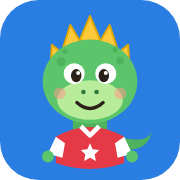
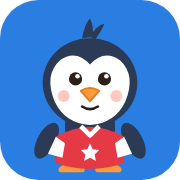
Charlie's version: penguin host, named Charlie
Claude-Session: https://claude.ai/code/session_016kJb3BtDpowdTveexxS8um

diff --git a/index.html b/index.html
@@ -3,11 +3,11 @@
 <head>
 <meta charset="utf-8">
 <meta name="viewport" content="width=device-width, initial-scale=1, viewport-fit=cover, user-scalable=no">
-<title>OLIVER – Play &amp; Learn</title>
+<title>CHARLIE – Play &amp; Learn</title>
 <meta name="theme-color" content="#ffc93c">
 <meta name="apple-mobile-web-app-capable" content="yes">
 <meta name="mobile-web-app-capable" content="yes">
-<meta name="apple-mobile-web-app-title" content="OLIVER">
+<meta name="apple-mobile-web-app-title" content="CHARLIE">
 <meta name="apple-mobile-web-app-status-bar-style" content="black-translucent">
 <link rel="manifest" href="manifest.webmanifest">
 <link rel="icon" href="icon.svg" type="image/svg+xml">
@@ -17,8 +17,8 @@
 <link href="https://fonts.googleapis.com/css2?family=Baloo+2:wght@600;800&display=swap" rel="stylesheet">
 <style>
 /* VOICE: warm, bouncy, encouraging — a picture-book friend, never a test.
-   IDEA: a sunny playroom where OLIVER the dinosaur hosts each mini-game like a kids' TV show.
-   PICTURE: OLIVER himself, large, beside one big task; answers are chunky toys to tap.
+   IDEA: a sunny playroom where CHARLIE the penguin hosts each mini-game like a kids' TV show.
+   PICTURE: CHARLIE himself, large, beside one big task; answers are chunky toys to tap.
    COLOUR and TYPE: lion gold ground, sky blue stage, kit red accent; Baloo 2 rounded display.
    LAYOUT: one task per screen, three huge answers in a row; works portrait, landscape and TV. */
 :root{--gold:#ffc93c;--mane:#f28c28;--sky:#2a7de1;--sky2:#5fb0ff;--red:#e63946;--ink:#2b2118;--paper:#fffaf0;--ok:#2fbf71;
@@ -247,31 +247,28 @@ h1{font-size:clamp(40px,8vw,72px)}h2{font-size:clamp(26px,5vw,44px)}
 </head>
 <body>
 
-<!-- Reusable art: OLIVER, star -->
+<!-- Reusable art: CHARLIE, star -->
 <svg width="0" height="0" style="position:absolute" aria-hidden="true">
   <defs>
     <symbol id="leo" viewBox="0 -16 200 246">
-      <!-- The host: an original friendly green dinosaur in the red-and-white shirt. -->
-      <path d="M150 196q40 2 44-30q-4 20-42 12z" fill="#4fb35e"/>
-      <g fill="#ffc93c" stroke="#e0a800" stroke-width="3" stroke-linejoin="round">
-        <path d="M58 44 70 6l18 30z"/><path d="M84 30 100-8l16 38z"/><path d="M112 36l18-30 12 38z"/><path d="M40 70l2-34 24 20z"/><path d="M134 56l24-20 2 34z"/>
-      </g>
-      <rect x="74" y="140" width="52" height="40" rx="14" fill="#4fb35e"/>
-      <ellipse cx="100" cy="92" rx="72" ry="64" fill="#5cc46a"/>
-      <g fill="#4fb35e"><circle cx="56" cy="62" r="7"/><circle cx="146" cy="60" r="6"/><circle cx="138" cy="44" r="4"/><circle cx="62" cy="46" r="4"/></g>
-      <ellipse cx="100" cy="120" rx="50" ry="30" fill="#b8ec9a"/>
-      <circle cx="76" cy="80" r="16" fill="#fff"/><circle cx="124" cy="80" r="16" fill="#fff"/>
-      <ellipse cx="79" cy="83" rx="8" ry="10" fill="#2b2118"/><ellipse cx="121" cy="83" rx="8" ry="10" fill="#2b2118"/>
-      <circle cx="82" cy="79" r="3" fill="#fff"/><circle cx="124" cy="79" r="3" fill="#fff"/>
-      <circle cx="90" cy="108" r="3.5" fill="#2f7a3a"/><circle cx="110" cy="108" r="3.5" fill="#2f7a3a"/>
-      <circle cx="54" cy="110" r="9" fill="#ff9a8a" opacity=".55"/><circle cx="146" cy="110" r="9" fill="#ff9a8a" opacity=".55"/>
-      <path d="M80 124q20 18 40 0" fill="none" stroke="#2b2118" stroke-width="5" stroke-linecap="round"/>
+      <!-- The host: an original friendly penguin in the red-and-white shirt. -->
+      <ellipse cx="72" cy="226" rx="20" ry="9" fill="#ff9a3c"/><ellipse cx="128" cy="226" rx="20" ry="9" fill="#ff9a3c"/>
+      <ellipse cx="34" cy="182" rx="14" ry="30" fill="#2b3a55" transform="rotate(28 34 182)"/><ellipse cx="166" cy="182" rx="14" ry="30" fill="#2b3a55" transform="rotate(-28 166 182)"/>
+      <rect x="62" y="130" width="76" height="60" rx="26" fill="#2b3a55"/>
+      <path d="M88 26q4-22 12-30 6 12 4 28M100 24q10-18 22-20-6 14-14 24" fill="#2b3a55"/>
+      <ellipse cx="100" cy="94" rx="72" ry="68" fill="#2b3a55"/>
+      <path d="M100 66q-22-24-46-6-24 22-8 62 16 34 54 36 38-2 54-36 16-40-8-62-24-18-46 6z" fill="#fff"/>
+      <circle cx="78" cy="88" r="10" fill="#2b2118"/><circle cx="122" cy="88" r="10" fill="#2b2118"/>
+      <circle cx="81" cy="84" r="3.5" fill="#fff"/><circle cx="125" cy="84" r="3.5" fill="#fff"/>
+      <circle cx="60" cy="114" r="9" fill="#ff9a8a" opacity=".55"/><circle cx="140" cy="114" r="9" fill="#ff9a8a" opacity=".55"/>
+      <path d="M86 106q14-8 28 0l-14 16z" fill="#ff9a3c" stroke="#e07f24" stroke-width="3" stroke-linejoin="round"/>
+      <path d="M88 130q12 8 24 0" fill="none" stroke="#2b2118" stroke-width="4" stroke-linecap="round"/>
       <path d="M48 176q52-30 104 0v40q-52 18-104 0z" fill="#e63946"/>
       <path d="M48 176l-12 26 22 6 4-22zM152 176l12 26-22 6-4-22z" fill="#fff"/>
-      <circle cx="36" cy="206" r="9" fill="#5cc46a"/><circle cx="164" cy="206" r="9" fill="#5cc46a"/>
       <path d="M86 160l14 14 14-14" fill="none" stroke="#fff" stroke-width="7" stroke-linejoin="round"/>
       <path d="M100 186l4 9 10 1-7 7 2 10-9-5-9 5 2-10-7-7 10-1z" fill="#fff"/>
     </symbol>
+
     <symbol id="lion" viewBox="0 -16 200 246">
       <g fill="#f28c28">
         <circle cx="100" cy="88" r="78"/>
@@ -325,7 +322,7 @@ h1{font-size:clamp(40px,8vw,72px)}h2{font-size:clamp(26px,5vw,44px)}
       <path d="M185 145h130" stroke="#fff" stroke-width="4" stroke-dasharray="10 8"/>
       <g fill="#ffc93c"><rect x="207" y="88" width="8" height="30" rx="3"/><rect x="232" y="88" width="8" height="30" rx="3"/><rect x="258" y="88" width="8" height="30" rx="3"/><rect x="284" y="88" width="8" height="30" rx="3"/></g>
       <g fill="#ff9a3c"><ellipse cx="211" cy="80" rx="5" ry="8"/><ellipse cx="236" cy="80" rx="5" ry="8"/><ellipse cx="262" cy="80" rx="5" ry="8"/><ellipse cx="288" cy="80" rx="5" ry="8"/></g>
-      <text x="250" y="190" font-size="26" font-weight="800" text-anchor="middle" fill="#8a5cf6" font-family="system-ui,sans-serif">OLIVER 4</text>
+      <text x="250" y="190" font-size="26" font-weight="800" text-anchor="middle" fill="#8a5cf6" font-family="system-ui,sans-serif">CHARLIE 4</text>
       <rect x="350" y="122" width="44" height="44" rx="4" fill="#2a7de1"/><path d="M372 122v44M350 144h44" stroke="#ffc93c" stroke-width="6"/>
       <rect x="402" y="132" width="36" height="34" rx="4" fill="#e63946"/><path d="M420 132v34M402 149h36" stroke="#fff" stroke-width="5"/>
       <g fill="#8a5cf6"><circle cx="150" cy="150" r="5"/><circle cx="170" cy="100" r="4"/><circle cx="330" cy="70" r="5"/></g>
@@ -363,13 +360,13 @@ h1{font-size:clamp(40px,8vw,72px)}h2{font-size:clamp(26px,5vw,44px)}
 
 <section id="start" class="screen on" aria-label="Start">
   <svg class="leo-hero wave" aria-hidden="true"><use href="#leo"/></svg>
-  <h1>OLIVER</h1>
+  <h1>CHARLIE</h1>
   <button class="big" id="startBtn" data-nav>Let's play!</button>
 </section>
 
 <section id="birthday" class="screen" aria-label="Happy birthday">
   <div class="balloons" id="balloons"></div>
-  <h1>Happy 4th Birthday, Oliver!</h1>
+  <h1>Happy 4th Birthday, Charlie!</h1>
   <div class="bday-scene">
     <svg class="bday-leo wave" aria-hidden="true"><use href="#leo"/></svg>
     <svg class="cake" viewBox="0 0 200 230" aria-label="Birthday cake with a number 4 candle">
@@ -441,12 +438,12 @@ h1{font-size:clamp(40px,8vw,72px)}h2{font-size:clamp(26px,5vw,44px)}
     <label>Prize videos, one YouTube link per line (video 1 plays after game 1, and so on)
       <textarea id="setVideos" data-nav placeholder="https://www.youtube.com/watch?v=..."></textarea>
       <span class="note" id="videoCount"></span></label>
-    <p class="note">Tip: lock the device to OLIVER with Guided Access (iPhone/iPad) or screen pinning (Android) so he can't leave the app.</p>
+    <p class="note">Tip: lock the device to CHARLIE with Guided Access (iPhone/iPad) or screen pinning (Android) so he can't leave the app.</p>
     <div><h3>Numbers</h3><div class="bars" id="numBars"></div></div>
     <div><h3>Shapes</h3><div class="bars" id="shapeBars"></div></div>
     <p class="note" id="levelNote"></p>
     <p class="note" id="voiceNote"></p>
-    <div class="row"><button class="big blue" type="button" id="voiceTest" data-nav>Test OLIVER's voice</button></div>
+    <div class="row"><button class="big blue" type="button" id="voiceTest" data-nav>Test CHARLIE's voice</button></div>
     <p class="note">Settings and videos are saved on this device only, so set them on each phone, tablet or TV.</p>
     <div class="row"><button class="big" type="submit" data-nav>Save</button><button class="big blue" type="button" id="setBack" data-nav>Back</button></div>
     <div class="row"><button type="button" class="note" id="resetBtn" data-nav>Reset progress</button><button type="button" class="note" id="pinChange" data-nav>Change PIN</button></div>
@@ -557,7 +554,7 @@ function pickVoice() {
   } catch (e) { voice = null; }
 }
 if ('speechSynthesis' in window) { pickVoice(); speechSynthesis.onvoiceschanged = pickVoice; }
-/* In the Fire TV app, OLIVER speaks through the device's own voice engine (window.LeoNative). */
+/* In the Fire TV app, CHARLIE speaks through the device's own voice engine (window.LeoNative). */
 const nativeVoice = typeof window.LeoNative === 'object' && window.LeoNative !== null;
 let speechSeq = 0;
 const speechPending = new Map();
@@ -638,7 +635,7 @@ function say(text) {
 
 /* ---------- Sound (original jingles, synthesised) ---------- */
 let ac = null;
-// iPhone: let OLIVER's music play even when the ring/silent switch is on (Safari 17+).
+// iPhone: let CHARLIE's music play even when the ring/silent switch is on (Safari 17+).
 try { if (navigator.audioSession) navigator.audioSession.type = 'playback'; } catch (e) { console.warn('[LEO] audio session', e); }
 // iPhone only starts Web Audio from a finished tap (touchend/click), not from touchstart/pointerdown.
 function unlockAudio() {
@@ -725,7 +722,7 @@ function confetti() {
 }
 
 /* ---------- Game loop ---------- */
-const PRAISE = ['Brilliant!', 'Well done, Oliver!', 'Amazing!', "You're a superstar, Oliver!", 'Fantastic!', 'Yes! Great job!'];
+const PRAISE = ['Brilliant!', 'Well done, Charlie!', 'Amazing!', "You're a superstar, Charlie!", 'Fantastic!', 'Yes! Great job!'];
 const NUM_WORD = ['zero', 'one', 'two', 'three', 'four', 'five', 'six', 'seven', 'eight', 'nine', 'ten'];
 let round = null, firstTry = true, locked = false, lastType = null, promptText = '';
 let currentGame = null, roundIndex = 0;
@@ -762,10 +759,10 @@ function renderMenu() {
   $('gameTiles').querySelectorAll('.tile').forEach((t) => {
     const g = C.GAMES.find((x) => x.id === t.dataset.game);
     t.addEventListener('click', () => startGame(g.id));
-    t.addEventListener('focus', () => { if (usingPad) say(g.name); }); // OLIVER reads the game names to a non-reader
+    t.addEventListener('focus', () => { if (usingPad) say(g.name); }); // CHARLIE reads the game names to a non-reader
   });
 }
-function goHome() { renderJars(); show('home'); say('Hello Oliver! Pick a game!'); }
+function goHome() { renderJars(); show('home'); say('Hello Charlie! Pick a game!'); }
 function startGame(id) {
   currentGame = id; roundIndex = 0; pen = null; tune = null; jig = null; ord = null; bld = null; mem = null; hs = null; fr = null; race = null; $('task').classList.remove('hidetask', 'firetask', 'racetask'); state = { ...state, stars: 0 }; save();
   show('play'); renderJars(); newRound();
@@ -943,11 +940,11 @@ async function dropPiece(slot, btn) {
   // Fill the star jar as the picture comes together.
   state = { ...state, stars: Math.round(jig.placed.length / C.JIGSAW_PIECES * state.settings.starsPerReward) }; save(); renderJars();
   sfx.right();
-  if (!C.isJigsawDone(jig.placed)) { renderJigsaw(); say(rand(['Yes!', 'Perfect!', 'Great!', 'Brilliant!', 'Well done, Oliver!'])); return; }
+  if (!C.isJigsawDone(jig.placed)) { renderJigsaw(); say(rand(['Yes!', 'Perfect!', 'Great!', 'Brilliant!', 'Well done, Charlie!'])); return; }
   locked = true;
   renderJigsaw();
   confetti(); sfx.fanfare();
-  await say(`You did it, Oliver! ${C.PUZZLES[jig.pic].done}`);
+  await say(`You did it, Charlie! ${C.PUZZLES[jig.pic].done}`);
   await wait(1200);
   if (current === 'play' && currentGame === 'jigsaw') { state = { ...state, stars: state.settings.starsPerReward }; save(); startReward(); }
 }
@@ -1284,7 +1281,7 @@ async function pickSpot(btn) {
   await funWin(`Boo! You found ${cur.h.hider}!`);
 }
 
-/* ---------- Fire Rescue: drive OLIVER's fire engine to each fire and spray it out ---------- */
+/* ---------- Fire Rescue: drive CHARLIE's fire engine to each fire and spray it out ---------- */
 const FX = [100, 300, 500, 700, 900]; // centre of each building
 const FY = [175, 300]; // upper and lower window rows
 const BUILD_COLS = [['#ffd6a5', 120], ['#bde0fe', 70], ['#ffc8dd', 140], ['#caffbf', 90], ['#fdffb6', 110]]; // colour, roof height
@@ -1301,7 +1298,7 @@ function fireScene() {
     return `<rect x="${x - 82}" y="${top}" width="164" height="${432 - top}" fill="${col}"/><rect x="${x - 90}" y="${top - 14}" width="180" height="18" rx="6" fill="#0002"/>${wins}`
       + (i === 2 ? `<rect x="${x - 24}" y="370" width="48" height="62" rx="6" fill="#e63946"/>` : `<rect x="${x - 20}" y="374" width="40" height="58" rx="6" fill="#8d5a2b"/>`);
   }).join('');
-  // OLIVER in a yellow helmet, riding an original red fire engine; the hose nozzle sits at (0,-58) relative to the truck.
+  // CHARLIE in a yellow helmet, riding an original red fire engine; the hose nozzle sits at (0,-58) relative to the truck.
   const truck = `<g class="truck" id="truck" style="transform:translateX(${FX[2]}px)"><g transform="translate(0 6) scale(.85)">
     <rect x="-118" y="-40" width="236" height="86" rx="14" fill="#e63946"/><rect x="-118" y="20" width="236" height="12" fill="#fff"/>
     <rect x="40" y="-112" width="80" height="76" rx="12" fill="#e63946"/><rect x="50" y="-102" width="60" height="44" rx="8" fill="#cfe8ff"/>
@@ -1377,8 +1374,8 @@ async function sprayAt(col) {
 }
 
 /* ---------- Race Day: one-button racing — jump the cones and win ---------- */
-const LANE_Y = [300, 392, 490]; // wheel line of each lane: two rivals, then OLIVER nearest
-const LEO_SCREEN_X = 210; // where OLIVER's car sits on screen; the world scrolls past
+const LANE_Y = [300, 392, 490]; // wheel line of each lane: two rivals, then CHARLIE nearest
+const LEO_SCREEN_X = 210; // where CHARLIE's car sits on screen; the world scrolls past
 function raceCar(colour, number, driver) {
   // An original side-on race car, 170 wide, wheels resting on y=64.
   return `<rect x="2" y="12" width="12" height="22" rx="3" fill="#2b2118"/><rect x="-2" y="8" width="26" height="8" rx="3" fill="${colour}"/>`
@@ -1453,7 +1450,7 @@ function raceTick(r, now) {
   const dt = Math.min(0.05, (now - r.last) / 1000); r.last = now;
   const slow = now < r.slowUntil ? 0.45 : 1;
   r.leo += LEO_SPEED * r.plan.speed * slow * dt;
-  // Rivals stay close. Each cone OLIVER hits lets them get further: 2 hits and blue beats him, 3 and green does too.
+  // Rivals stay close. Each cone CHARLIE hits lets them get further: 2 hits and blue beats him, 3 and green does too.
   const hits = r.hit.size;
   r.rivals = r.rivals.map((x, i) => {
     const beats = hits >= 2 + i;
@@ -1522,7 +1519,7 @@ function startReward() {
   $('rewardTitle').textContent = game ? `${game.name}: all done!` : 'You earned a surprise!';
   $('rewardArt').innerHTML = BOX;
   $('rewardBtn').textContent = 'Open it!'; $('skipBtn').hidden = true;
-  show('reward'); sfx.fanfare(); confetti(); say('Wow! You finished the game, Oliver! Open your surprise!');
+  show('reward'); sfx.fanfare(); confetti(); say('Wow! You finished the game, Charlie! Open your surprise!');
 }
 $('rewardBtn').addEventListener('click', async () => {
   if (rewardStage === 'box') {
@@ -1684,13 +1681,13 @@ function openSettings() {
 function updateVoiceNote() {
   let msg;
   try {
-    if (clipSet && clipSet.size) msg = `Voice: OLIVER's recorded voice, Poppy (${clipSet.size} phrases)`;
+    if (clipSet && clipSet.size) msg = `Voice: CHARLIE's recorded voice, Poppy (${clipSet.size} phrases)`;
     else if (nativeVoice) msg = `TV voice: ${window.LeoNative.status ? window.LeoNative.status() : (window.LeoNative.canSpeak() ? 'ready' : 'not ready')}`;
-    else msg = 'speechSynthesis' in window ? `Voice: ${voice ? voice.name : 'device default'}` : 'Voice: this browser cannot speak (use the OLIVER app on TV)';
+    else msg = 'speechSynthesis' in window ? `Voice: ${voice ? voice.name : 'device default'}` : 'Voice: this browser cannot speak (use the CHARLIE app on TV)';
   } catch (e) { msg = 'Voice: unknown'; console.warn('[LEO] voice status', e); }
   $('voiceNote').textContent = msg;
 }
-$('voiceTest').addEventListener('click', () => { say('Hello Oliver! Can you hear me?'); setTimeout(updateVoiceNote, 1500); });
+$('voiceTest').addEventListener('click', () => { say('Hello Charlie! Can you hear me?'); setTimeout(updateVoiceNote, 1500); });
 function updateVideoCount() {
   const n = C.parseVideoList($('setVideos').value).length;
   $('videoCount').textContent = n
@@ -1737,7 +1734,7 @@ renderMenu();
 renderJars();
 
 /* ---------- Birthday surprise: 25 November 2026 only ---------- */
-function isBirthday() { return false; } // Oliver's version: no birthday screen
+function isBirthday() { return false; } // Charlie's version: no birthday screen
 function playBirthdayTune() {
   // "Happy Birthday to You" (public domain melody), one beat = 0.32s.
   const G = 392, A = 440, B = 494, C5 = 523, D5 = 587, E5 = 659, F5 = 698, G5 = 784;
@@ -1747,8 +1744,8 @@ function playBirthdayTune() {
   const lineStarts = [];
   const phraseStart = [0, 6, 12, 19]; // note index where each sung line begins
   notes.forEach(([f, beats], i) => { if (phraseStart.includes(i)) lineStarts.push(t); tone(f, t, beats * 0.3, 'triangle', 0.22); t += beats * 0.32; });
-  // OLIVER sings along: one spoken line at the start of each musical phrase.
-  const lines = ['Happy birthday to you', 'Happy birthday to you', 'Happy birthday dear Oliver', 'Happy birthday to you!'];
+  // CHARLIE sings along: one spoken line at the start of each musical phrase.
+  const lines = ['Happy birthday to you', 'Happy birthday to you', 'Happy birthday dear Charlie', 'Happy birthday to you!'];
   lineStarts.forEach((start, i) => setTimeout(() => {
     if (hasClips(lines[i])) { $('bubble').textContent = lines[i]; sayClips(lines[i], true); return; }
     if (nativeVoice) { nativeSpeak(lines[i], true); return; }

diff --git a/voice/phrases.js b/voice/phrases.js
@@ -1,16 +1,16 @@
-/* Lists every sentence OLIVER can say, so each can be recorded once as a voice clip.
+/* Lists every sentence CHARLIE can say, so each can be recorded once as a voice clip.
    Run: node voice/phrases.js > voice/phrases.json  (the voice workflow does this). Mirrors the say() calls in index.html. */
 const C = require('../core.js');
 
 const NUM_WORD = ['zero', 'one', 'two', 'three', 'four', 'five', 'six', 'seven', 'eight', 'nine', 'ten'];
-const PRAISE = ['Brilliant!', 'Well done, Oliver!', 'Amazing!', "You're a superstar, Oliver!", 'Fantastic!', 'Yes! Great job!'];
+const PRAISE = ['Brilliant!', 'Well done, Charlie!', 'Amazing!', "You're a superstar, Charlie!", 'Fantastic!', 'Yes! Great job!'];
 const PLURAL = ['footballs', 'apples', 'stars', 'music notes'];
 const SHAPES = C.BASIC_SHAPES.concat(C.EXTRA_SHAPES);
 const nums = Array.from({ length: 10 }, (_, i) => i + 1);
 const texts = [];
 const add = (...t) => texts.push(...t);
 
-add(...C.GAMES.map((g) => g.name), 'Hello Oliver! Pick a game!', 'Hello Oliver! Can you hear me?', ...PRAISE);
+add(...C.GAMES.map((g) => g.name), 'Hello Charlie! Pick a game!', 'Hello Charlie! Can you hear me?', ...PRAISE);
 // Number games
 for (const n of nums) {
   add(`Can you find number ${n}?`, `Kick the ball into goal number ${n}!`, `That's number ${n}.`, `Goal! Number ${n}!`,
@@ -24,7 +24,7 @@ add('Which shape fits in the hole?');
 // Animals
 for (const [a, sound] of Object.entries(C.ANIMALS)) add(`Listen! ${sound} Which animal says that?`, `That's a ${a}.`, `Yes! The ${a} says ${sound}`);
 // Jigsaw
-for (const p of C.PUZZLES) add(`Let's make a picture of ${p.name}! Pick a piece, then find where it goes.`, `You did it, Oliver! ${p.done}`);
+for (const p of C.PUZZLES) add(`Let's make a picture of ${p.name}! Pick a piece, then find where it goes.`, `You did it, Charlie! ${p.done}`);
 add('Where does this piece go?', 'Pick a piece first!', 'Look for the glowing space!', 'Not there. Look at the picture!', 'Yes!', 'Perfect!', 'Great!');
 // Penalty
 add('Penalty time! Pick where to shoot!', 'Shoot again!', 'Ooh, the goalie saved it! Try again!', 'What a save! Have another go!');
@@ -55,11 +55,11 @@ add('Nee naw! Fire! Drive to the fire and spray the water!', 'Fire! Fire! Put it
 add('Race day! Jump over the cones and win the race!', 'Another race! Jump over the cones!', 'Oops! Jump over the cones!', 'You won the race!', 'Try again! Jump over the cones!',
   "Ooh, you came second! So close! Let's race again!", "Ooh, you came third! Jump over the cones! Let's race again!");
 // Rewards, video, friends
-add('Wow! You finished the game, Oliver! Open your surprise!', 'Watch your video, or skip it?', "Let's dance!",
+add('Wow! You finished the game, Charlie! Open your surprise!', 'Watch your video, or skip it?', "Let's dance!",
   'Here are all your friends!', 'Play games to find new friends!');
 for (const f of C.FRIENDS) add(`You found ${f.name}!`, `${f.name} is your new friend!`);
 // Birthday (25 Nov 2026)
-add('Happy birthday to you', 'Happy birthday dear Oliver', 'Happy birthday to you!', "Let's play!");
+add('Happy birthday to you', 'Happy birthday dear Charlie', 'Happy birthday to you!', "Let's play!");
 
 const seen = new Map();
 for (const t of texts) for (const part of C.speechParts(t)) seen.set(C.clipKey(part), part);

diff --git a/core.js b/core.js
@@ -1,4 +1,4 @@
-/* OLIVER core logic — pure functions, no DOM. Shared by index.html and the Node tests. */
+/* CHARLIE core logic — pure functions, no DOM. Shared by index.html and the Node tests. */
 (function (root, factory) {
   const api = factory();
   if (typeof module === 'object' && module.exports) module.exports = api; // Node (tests)
@@ -15,7 +15,7 @@
 })(typeof self !== 'undefined' ? self : this, function () {
   'use strict';
 
-  const STORAGE_KEY = 'oliver.v1';
+  const STORAGE_KEY = 'charlie.v1';
   const HISTORY_LEN = 10; // rolling window used to judge mastery
   const MASTERY = 0.8; // 80% first-try accuracy unlocks the next level
 
@@ -77,7 +77,7 @@
   // Memory Pairs: board sizes grow across a game (pairs per board).
   const PAIRS_SIZES = [3, 3, 4, 5, 6];
 
-  // OLIVER makes each noise himself; art for every animal lives in index.html.
+  // CHARLIE makes each noise himself; art for every animal lives in index.html.
   const ANIMALS = {
     dog: 'Woof! Woof!', cat: 'Meow!', pig: 'Oink! Oink!', cow: 'Moooo!',
     sheep: 'Baa! Baa!', duck: 'Quack! Quack!', frog: 'Ribbit! Ribbit!', lion: 'Roar!'
@@ -92,13 +92,13 @@
   const JIGSAW_PIECES = JIGSAW_COLS * JIGSAW_ROWS;
   // Original pictures drawn in index.html (symbols #pic0..#pic3).
   const PUZZLES = [
-    { name: 'Oliver playing football', done: 'Oliver is playing football!' },
+    { name: 'Charlie playing football', done: 'Charlie is playing football!' },
     { name: 'a birthday party', done: "It's a birthday party!" },
     { name: 'the bottom of the sea', done: "It's under the sea!" },
     { name: 'a rocket in space', done: "It's a rocket in space!" }
   ];
 
-  // Prize videos chosen by Oliver's dad; editable in the grown-ups area.
+  // Prize videos chosen by Charlie's dad; editable in the grown-ups area.
   // Video N plays after game N (Number Balloons first ... Number Order tenth).
   const DEFAULT_VIDEOS = ['nEUTY8n2iZo', 'XcTvDcJt058', 'uaEcjl_jO9w', 'S-lkBBl-KG4', 'oVL8CvA5NIs',
     'uFs-T_iq6lc', '64FUWQMZakY', 'd3XW_lvBRVw', 'PfpLAqAtjnI', 'EW6cIIRayXc',
@@ -447,7 +447,7 @@
     return free.length ? free[Math.floor(rng() * free.length)] : null;
   }
 
-  // Race Day: one-button racing. Jump the cones in OLIVER's lane; races get longer and busier.
+  // Race Day: one-button racing. Jump the cones in CHARLIE's lane; races get longer and busier.
   const RACE_LENGTH = 4200; // track units from start line to finish
   // Cones stay well apart (a full jump plus time to get ready) so it's fair with a TV remote's small delay.
   const RACE_ROUNDS = [{ cones: 3, speed: 1 }, { cones: 3, speed: 1 }, { cones: 4, speed: 1.05 }, { cones: 4, speed: 1.05 }, { cones: 5, speed: 1.1 }];
@@ -502,7 +502,7 @@
     return ids[i];
   }
 
-  /** Splits what OLIVER says into sentences; each sentence has its own recorded voice clip. */
+  /** Splits what CHARLIE says into sentences; each sentence has its own recorded voice clip. */
   function speechParts(text) {
     return String(text || '').split(/(?<=[.!?])\s+/).map((t) => t.trim()).filter(Boolean);
   }

diff --git a/voice/record.py b/voice/record.py
@@ -19,6 +19,14 @@ if not os.path.exists(marker) or open(marker).read().strip() != voice_id:
         os.remove(os.path.join('voice/clips', f))
     open(marker, 'w').write(voice_id)
 print('voice:', voice_id, 'speaker id', speaker_id)
+# Optional respellings so names are said properly (e.g. {"Seraphina": "Sera-feena"}); the clip key still uses the real text.
+say_as = json.load(open('voice/say-as.json')) if os.path.exists('voice/say-as.json') else {}
+for word in ['Charlie'] + list(say_as.values()):
+    try: print('phonemes', word, '->', ' '.join(''.join(s) for s in voice.phonemize(word)))
+    except Exception as e: print('phonemes', word, 'failed', e)
+def spoken(text):
+    for k, v in say_as.items(): text = text.replace(k, v)
+    return text
 done, failed = [], []
 for p in phrases:
     mp3 = f"voice/clips/{p['key']}.mp3"
@@ -28,7 +36,7 @@ for p in phrases:
             with wave.open(wav, 'wb') as w:
                 kw = {'length_scale': 1.08, 'sentence_silence': 0.05}  # a touch slower for a 4-year-old
                 if speaker_id is not None: kw['speaker_id'] = speaker_id
-                voice.synthesize(p['text'], w, **kw)
+                voice.synthesize(spoken(p['text']), w, **kw)
             subprocess.run(['ffmpeg', '-loglevel', 'error', '-y', '-i', wav, '-ac', '1', '-b:a', '64k', mp3], check=True)
         except Exception as e:  # keep going: one bad sentence shouldn't stop the rest
             print('FAILED', p['text'], e)
